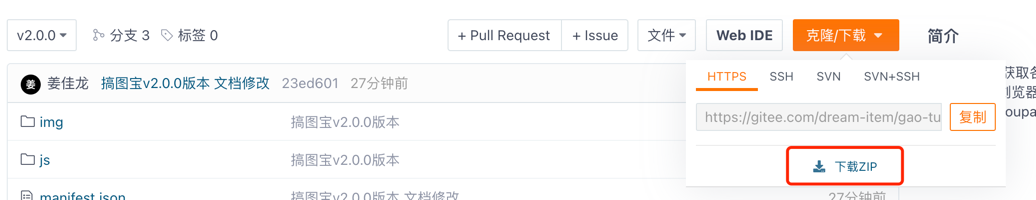
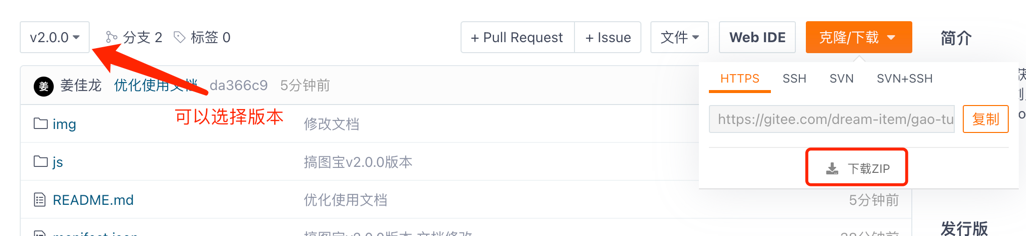
优化使用文档

diff --git a/README.md b/README.md
@@ -5,7 +5,7 @@
 现已支持京东、淘宝、天猫、coupang、1688、naver、gmarket
 
 #### 使用教程
-1. 当前页面点击下载zip，并解压
+1. 当前页面点击下载zip，并解压，如果想下以前版本，可以左边选择
 ![img_1.png](img/img_9.png)
 2. 打开谷歌浏览器，右上角三个点，点击设置，然后打开关于Chrome
 ![img.png](img/img.png)
